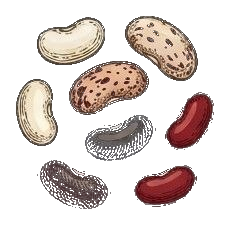
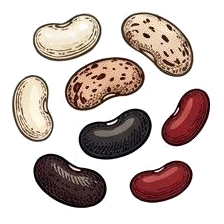
Polish landing copy and illustrations

diff --git a/src/views/ProjectsListView.vue b/src/views/ProjectsListView.vue
@@ -25,9 +25,9 @@ const selectedProjects = computed(() =>
       <div class="raes-shell hero-layout">
         <div class="hero-copy">
           <span class="eyebrow">Red Abierta Experimental de Semillas</span>
-          <h1>Cultivar juntas poblaciones diversas.</h1>
+          <h1>Cultivar juntos poblaciones diversas.</h1>
           <p>
-            Una comunidad para crear proyectos de cultivo, experimentar en muchos huertos a la vez y compartir semillas
+            Una comunidad de aficionados y profesionales para crear proyectos de cultivo, experimentar en muchos huertos a la vez y compartir semillas
             adaptadas a cada territorio.
           </p>
           <div class="hero-actions">
@@ -45,7 +45,7 @@ const selectedProjects = computed(() =>
 
     <section class="raes-shell mission-section">
       <p>
-        La misión es facilitar proyectos colectivos para recuperar variedades, crear nuevas poblaciones diversas y
+        El objetivo es facilitar proyectos colectivos entre aficionados y profesionales para recuperar variedades, crear nuevas poblaciones diversas y
         aprender qué cultivos funcionan mejor en cada clima, suelo y forma de cultivar.
       </p>
     </section>
@@ -53,17 +53,17 @@ const selectedProjects = computed(() =>
     <section class="raes-shell section-links">
       <RouterLink :to="{ name: 'what-is-this' }" class="section-card">
         <img src="@/assets/landing-corn-transparent.png" alt="" />
-        <h2>Entiende la red</h2>
+        <h2>Aprende sobre la importancia de compartir</h2>
         <p>Qué es, por qué importa la diversidad genética y cómo se coordinan los proyectos.</p>
       </RouterLink>
       <a href="#projects" class="section-card">
         <img src="@/assets/landing-beans-transparent.png" alt="" />
-        <h2>Participa cultivando</h2>
-        <p>Únete a ensayos, recibe o aporta semillas, cultiva y comparte resultados.</p>
+        <h2>Participa cultivando en tu propio huerto</h2>
+        <p>Únete a ensayos, recibe y aporta semillas, cultiva y comparte resultados. Da igual si tienes un macetohuerto o un terreno, si eres aficionado o profesional, ¡cualquiera puede participar!</p>
       </a>
       <RouterLink :to="{ name: 'get-involved' }" class="section-card">
         <img src="@/assets/landing-flowers-transparent.png" alt="" />
-        <h2>Involúcrate</h2>
+        <h2>Involúcrate en la comunidad</h2>
         <p>Crea proyectos, propón ideas, ayuda en foros o escribe para colaborar.</p>
       </RouterLink>
     </section>
@@ -78,17 +78,27 @@ const selectedProjects = computed(() =>
       <div class="example-grid">
         <article class="example-card">
           <div class="example-graphic seed-loop" aria-label="Ciclo de semillas">
-            <span>Creadora</span><i class="bi bi-arrow-right"></i><span>Huertos</span><i class="bi bi-arrow-repeat"></i><span>Semillas mezcladas</span>
+            <span>Envío semillas</span><i class="bi bi-arrow-right"></i><span>Cultivo y selección semillas</span><i class="bi bi-arrow-repeat"></i><span>Envío semillas mezcladas</span>
           </div>
           <h3>Multiplicar semillas</h3>
-          <p>Alguien reparte semillas, varias personas cultivan, se selecciona y la cosecha vuelve a circular.</p>
+          <p>Un proyecto puede organizar una multiplicación colectiva para que la cosecha vuelva a circular mejor adaptada y con más futuro.</p>
+          <ul class="example-list">
+            <li>Recuperar o salvar variedades que están desapareciendo.</li>
+            <li>Crear variedades nuevas adaptadas a cada clima, suelo y forma de cultivar.</li>
+            <li>Levantar poblaciones muy diversas genéticamente, más resilientes y útiles para seguir seleccionando.</li>
+          </ul>
         </article>
         <article class="example-card">
           <div class="example-graphic data-loop" aria-label="Ensayo con datos">
             <span>Método</span><i class="bi bi-bar-chart-line"></i><span>Mediciones</span><i class="bi bi-chat-dots"></i><span>Resultados</span>
           </div>
           <h3>Aprender con ensayos</h3>
-          <p>El proyecto propone una pauta común y cada participante devuelve datos, fotos y observaciones.</p>
+          <p>También se pueden coordinar ensayos sencillos para comparar prácticas reales en muchos huertos a la vez.</p>
+          <ul class="example-list">
+            <li>Comparar distintas enmiendas y ver qué efecto tienen en el cultivo.</li>
+            <li>Probar formas de plantación diferentes con una pauta común.</li>
+            <li>Ensayar fechas de siembra o trasplante para encontrar los mejores tiempos en cada zona.</li>
+          </ul>
         </article>
       </div>
     </section>
@@ -327,6 +337,20 @@ const selectedProjects = computed(() =>
   line-height: 1.5;
 }
 
+.example-list {
+  display: grid;
+  gap: 0.45rem;
+  margin: 0.85rem 0 0;
+  padding-left: 1.15rem;
+  color: #344238;
+  font-size: 0.94rem;
+  line-height: 1.45;
+}
+
+.example-list li::marker {
+  color: var(--raes-green);
+}
+
 .examples-section,
 .selected-projects,
 .projects-panel {
@@ -484,7 +508,7 @@ const selectedProjects = computed(() =>
 
 .project-grid {
   display: grid;
-  grid-template-columns: repeat(3, minmax(0, 1fr));
+  grid-template-columns: 1fr;
   gap: 1rem;
 }
 

diff --git a/src/views/WhatIsThisView.vue b/src/views/WhatIsThisView.vue
@@ -2,9 +2,9 @@
 
 <template>
   <div class="container pt-5">
-    <h1 class="mb-4">¿Qué es RAES?</h1>
+    <h1 class="mb-4">¿Qué es Red Abierta Experimental de Semillas?</h1>
     <p class="lead">
-      <strong>RAES</strong> (Red Abierta Experimental de Semillas) es una plataforma colaborativa que conecta a
+      Red Abierta Experimental de Semillas es una plataforma colaborativa que conecta a
       personas interesadas en la investigación y experimentación con semillas y cultivos de forma abierta y participativa.
     </p>
 
@@ -61,7 +61,7 @@
 
     <h3 class="mt-5 mb-3"><i class="bi bi-heart me-2"></i>Filosofía</h3>
     <p>
-      RAES nace de la convicción de que la investigación agrícola no debe estar limitada a grandes instituciones.
+      Red Abierta Experimental de Semillas nace de la convicción de que la investigación agrícola no debe estar limitada a grandes instituciones.
       Creemos que una red distribuida de horticultores puede generar conocimiento valioso mediante la experimentación
       coordinada. Todo el conocimiento generado es abierto y compartido libremente.
     </p>

diff --git a/src/views/GetInvolvedView.vue b/src/views/GetInvolvedView.vue
@@ -11,7 +11,7 @@
       <RouterLink :to="{ name: 'home', hash: '#projects' }" class="involved-card">
         <i class="bi bi-flower1"></i>
         <h2>Participar cultivando</h2>
-        <p>Únete a proyectos abiertos, cultiva siguiendo la pauta y comparte semillas o resultados.</p>
+        <p>Participa desde tu huerto, finca, terraza o asociación. Únete a proyectos abiertos, cultiva siguiendo la pauta y comparte semillas o resultados. Participar puede significar aportar semillas, recibirlas o ayudar a multiplicarlas.</p>
       </RouterLink>
       <RouterLink :to="{ name: 'forum-index' }" class="involved-card">
         <i class="bi bi-chat-square-text"></i>
@@ -20,7 +20,7 @@
       </RouterLink>
       <a href="mailto:redexperimentaldesemillas@gmail.com" class="involved-card">
         <i class="bi bi-envelope"></i>
-        <h2>Proponer cosas</h2>
+        <h2>Proponer ideas</h2>
         <p>Escribe si quieres colaborar, organizar un evento, aportar recursos o sugerir una línea de trabajo.</p>
       </a>
     </div>

diff --git a/src/views/HowItWorksView.vue b/src/views/HowItWorksView.vue
@@ -8,7 +8,7 @@
       <span class="eyebrow">Cómo funciona RAES</span>
       <h1>De una idea a un ensayo compartido.</h1>
       <p>
-        RAES conecta a personas que quieren probar, conservar, mejorar y compartir semillas en condiciones reales.
+        La Red Abierta Experimental de semillas conecta a personas que quieren probar, conservar, mejorar y compartir semillas en condiciones reales.
       </p>
     </section>
 

diff --git a/src/assets/main.css b/src/assets/main.css
@@ -72,7 +72,7 @@ img { max-width: 100%; }
 }
 
 .raes-shell {
-  width: min(1120px, calc(100% - 2rem));
+  width: min(1440px, calc(100% - 2rem));
   margin-inline: auto;
 }
 
@@ -164,7 +164,7 @@ img { max-width: 100%; }
   }
 
   .raes-shell {
-    width: min(100% - 1rem, 1120px);
+    width: min(100% - 1rem, 1440px);
   }
 
   .card,
